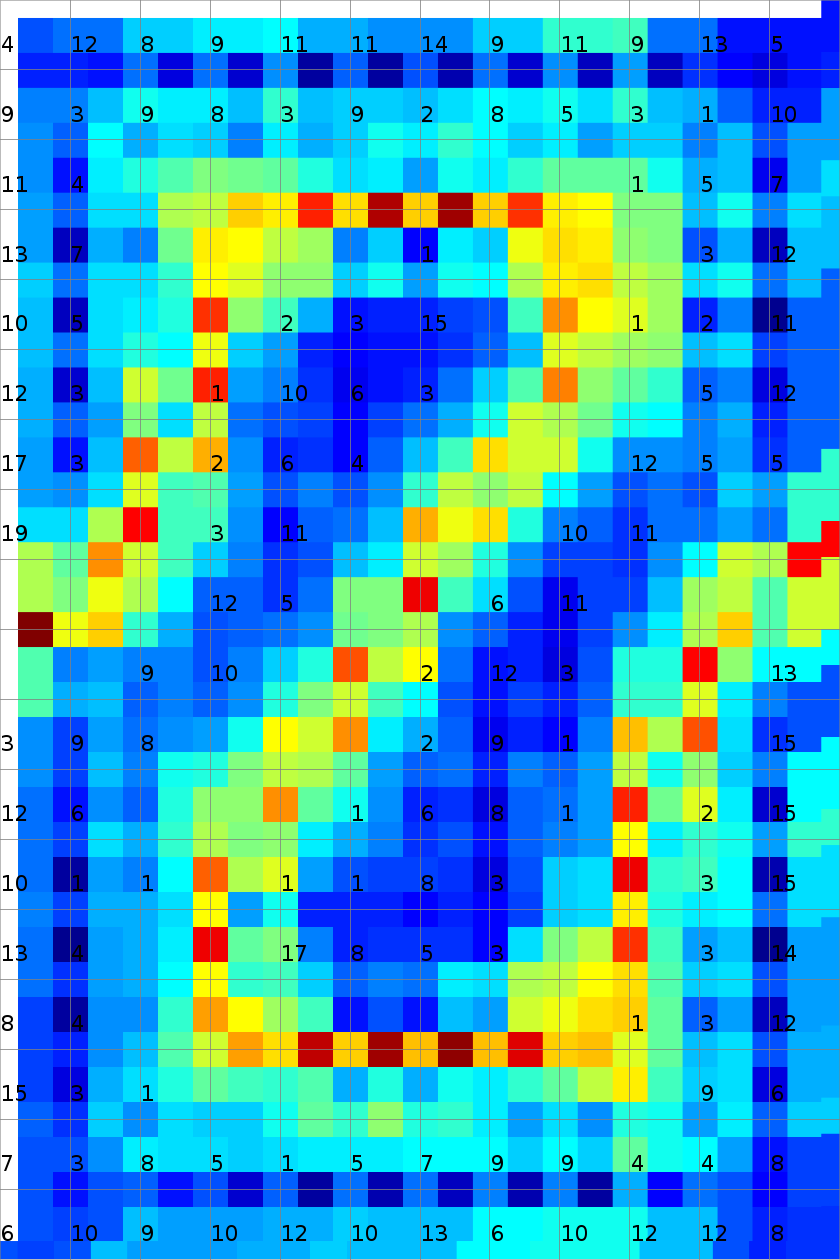
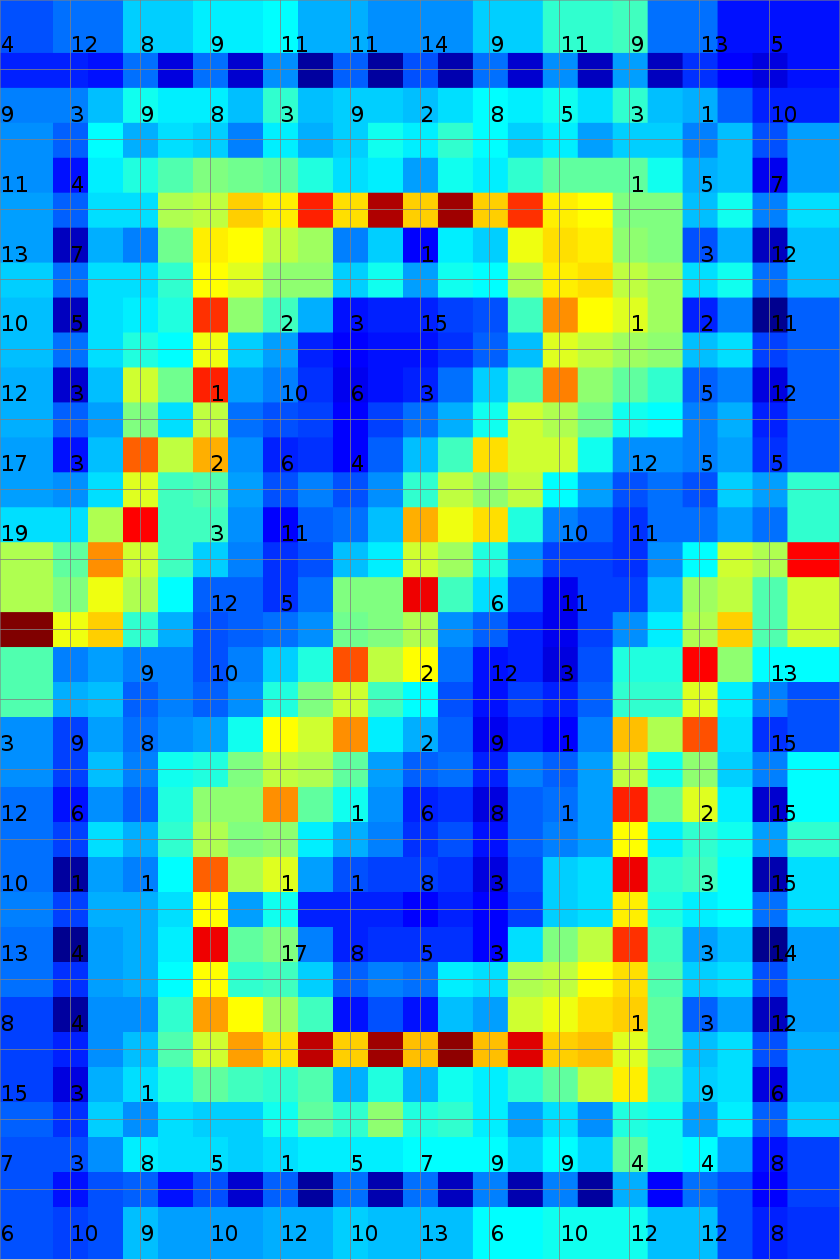
reexported umatrix, added reference

diff --git a/ex3-protocol/main.tex b/ex3-protocol/main.tex
@@ -67,7 +67,7 @@ four but six direct neighbors.
 The neighbors\footnote{$(X/Y)$ are the indices to address a cell} in Figure~\ref{fig:coord-rect}
 are $\{(1/2),(2/1),(1/0),(0/1)\}$. In Figure~\ref{fig:coord-hex} they are $\{(1/2),(2/2),(2/1),(2/0),(1/0),(0/1)\}$.
 
-The hexagonal grid is rendered ``pointy top''\footnote{The hexagon is rotated in such a way that an edge points up} and every second row is shifted half width of a
+The hexagonal grid is rendered ``pointy top''\footnote{The hexagon is rotated in such a way that an edge points up. We use the same terminology as it is found in~\cite{hex-rgg}} and every second row is shifted half width of a
 cell to the left.
 
 \begin{figure}
@@ -416,9 +416,9 @@ Figure~\ref{fig:iris-dist} shows that the distorion is reduced in the hexagonal 
 
 \section{Conclusion}
 
-For this last assignment of the lecture Self-Orgainzing Systems we have implemented a hexagonal grid that can be used to train SOM maps. Our implementation is tightly integraded into the current SOM training mechanisms.
-In addition to that we have updated many different visualizations to work correctly with the hexagonal grid and compared them using 2 well known datasets (Iris and Chainlink).
-Whether or not a hexagonal SOM is superior to a rectangular cannot be answered. We have observed several positive effects such as slightly better cluster separation in the UMatrix. In contrast to that we \textbf{once} observed that the mean quantization error was much higher in the hexagonal case.
+For this last assignment of the lecture Self-Orgainzing Systems we have implemented a hexagonal grid that can be used to train SOM maps. Our implementation is tightly integraded into the current SOM training mechanism.
+In addition to that we have updated many different visualizations to work correctly with the hexagonal grid and compared them using two well known datasets (Iris and Chainlink).
+Whether or not a hexagonal SOM is superior to a rectangular cannot be answered. We have observed several positive effects such as slightly better cluster separation in the UMatrix. In contrast to that we once observed that the mean quantization error was much higher in the hexagonal case.
 In many cases this might just be a question of aesthetics whether one grid looks better than the other.
 
 \bibliography{ref}

diff --git a/ex3/src/core/at/tuwien/ifs/somtoolbox/visualization/AbstractMatrixVisualizer.java b/ex3/src/core/at/tuwien/ifs/somtoolbox/visualization/AbstractMatrixVisualizer.java
@@ -231,6 +231,10 @@ public abstract class AbstractMatrixVisualizer extends AbstractBackgroundImageVi
             }
 
             if (factorX != 1 && factorY != 1 && helper.isRectangularGrid()) { // border
+
+                factorX = Math.round(factorX);
+                factorY = Math.round(factorY);
+
                 ci = (int) Math.round(matrix.get(0, 0) * palette.maxColourIndex()); // top-left
                 g.setPaint(palette.getColor(ci));
                 g.fill(new Rectangle(0, 0, (int) Math.round(unitWidth / factorX * 2), (int) Math.round(unitHeight
